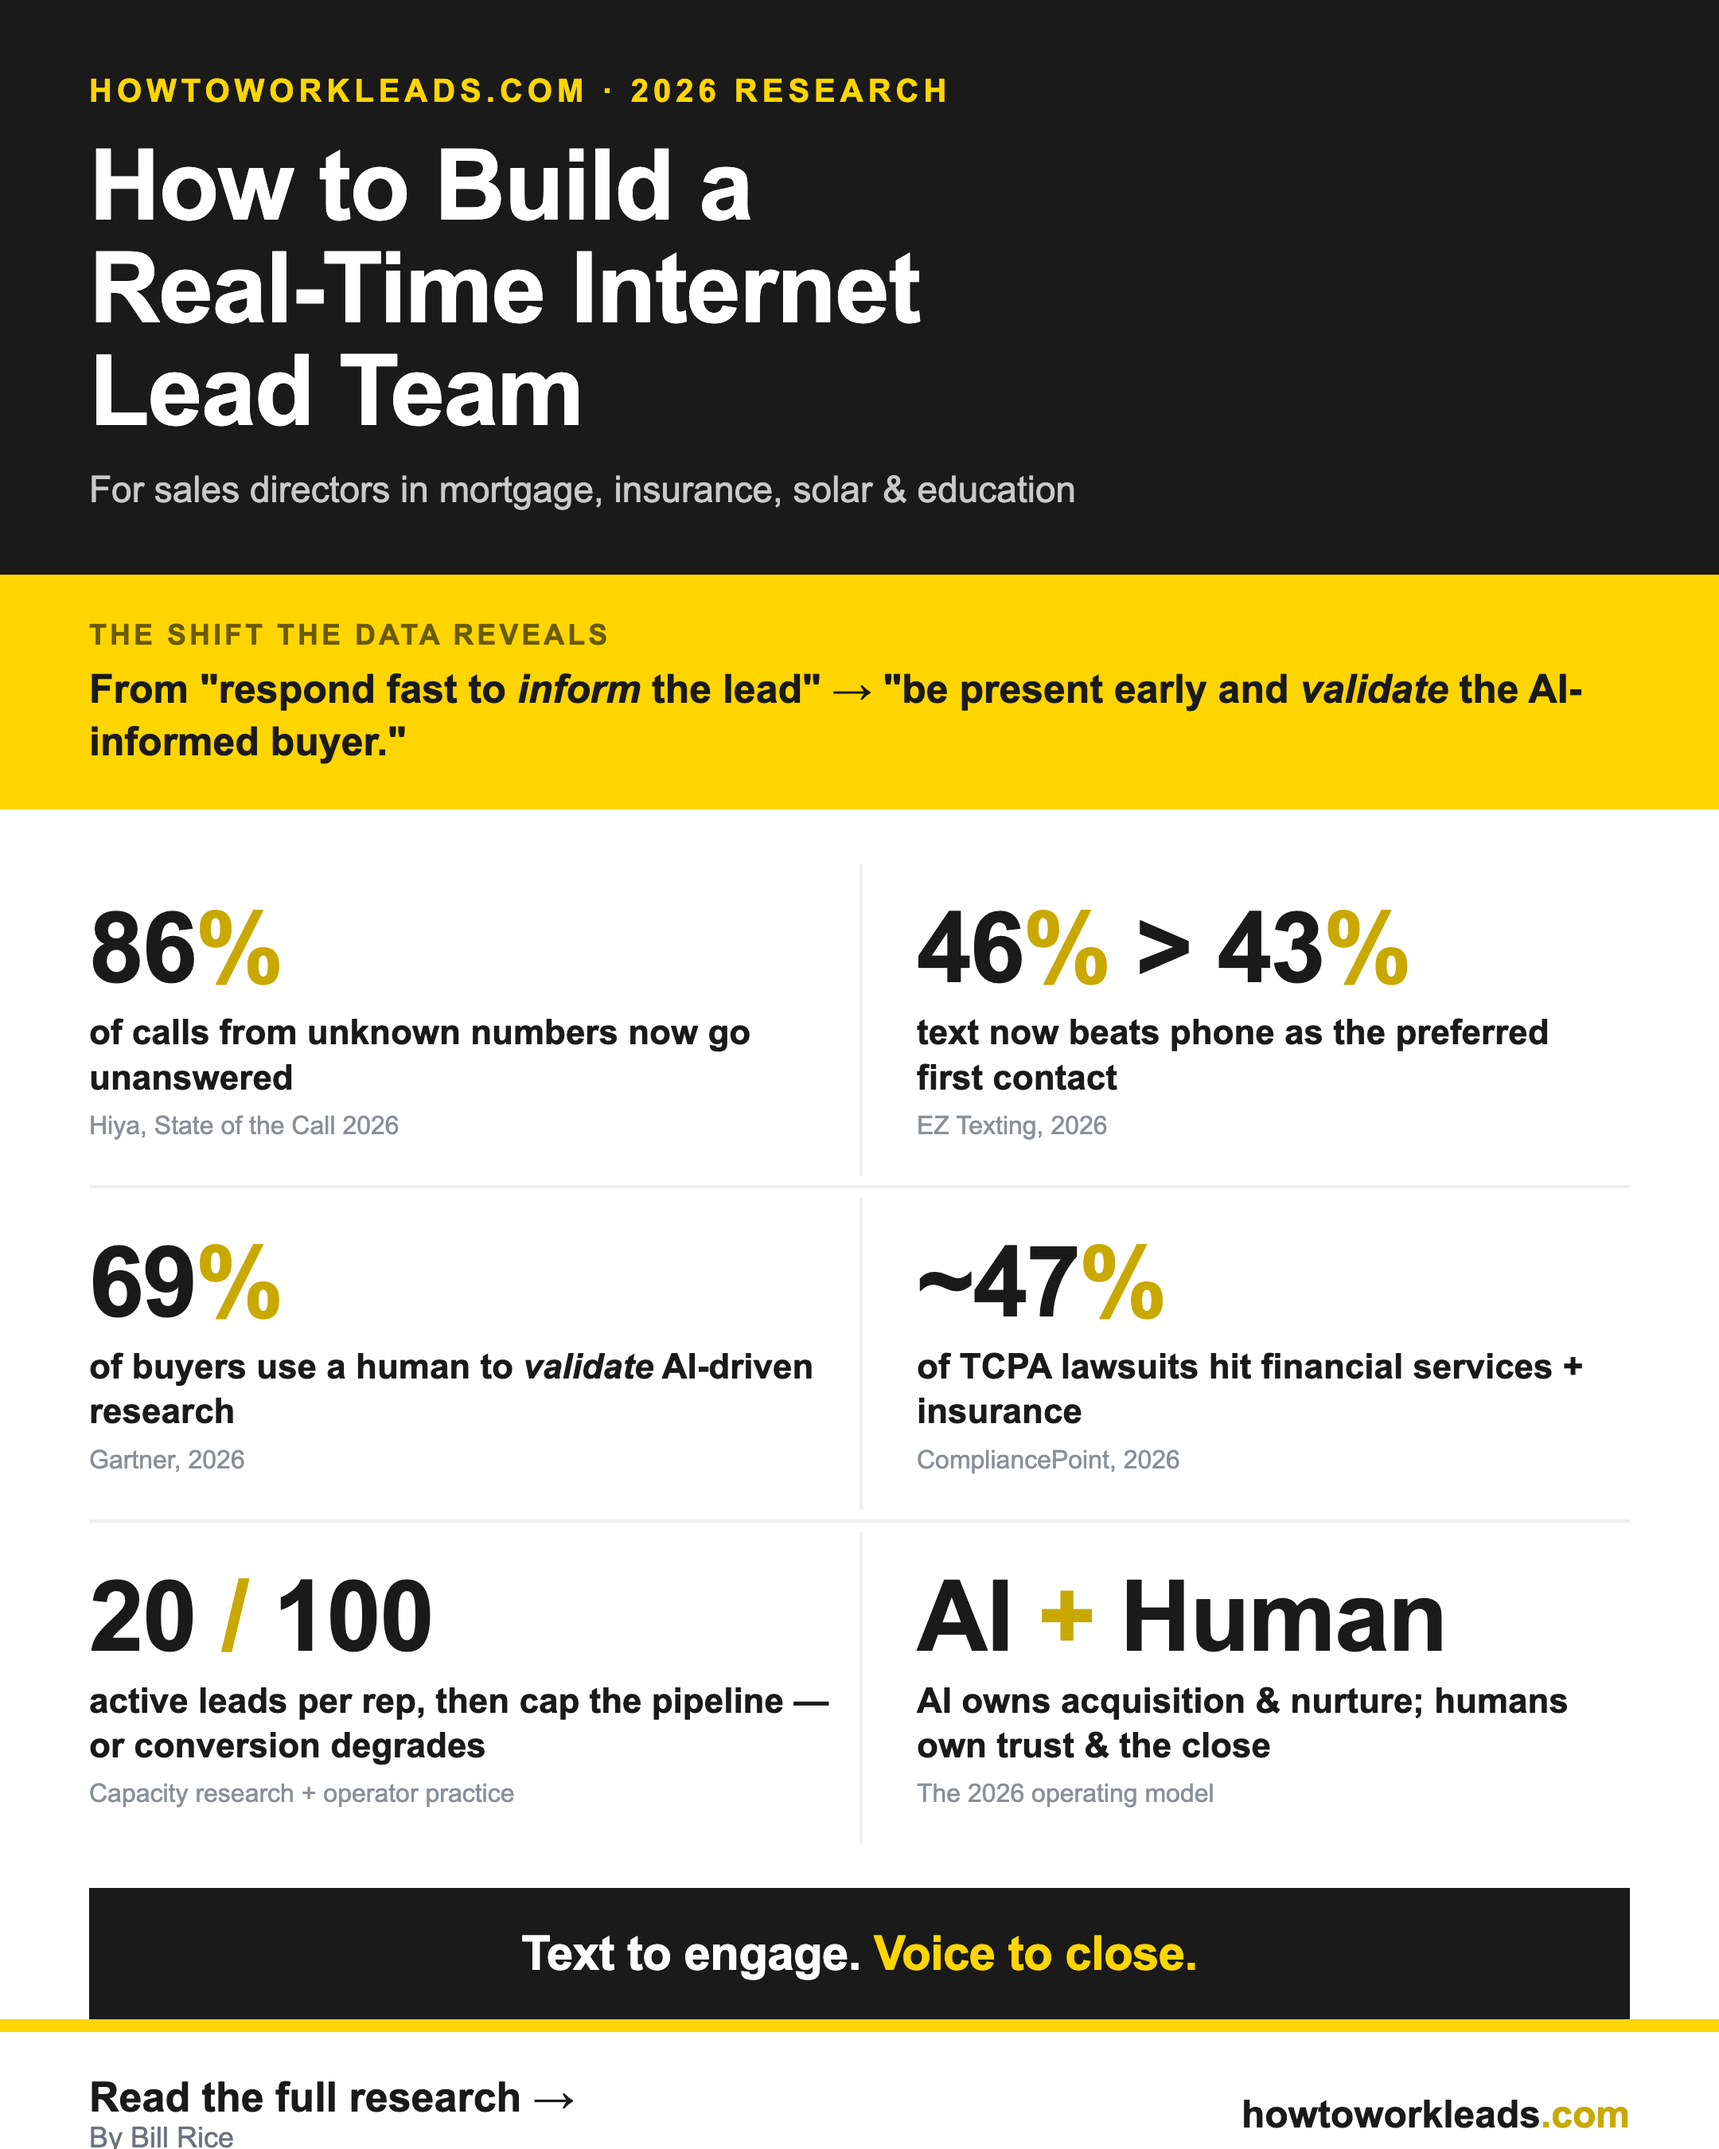
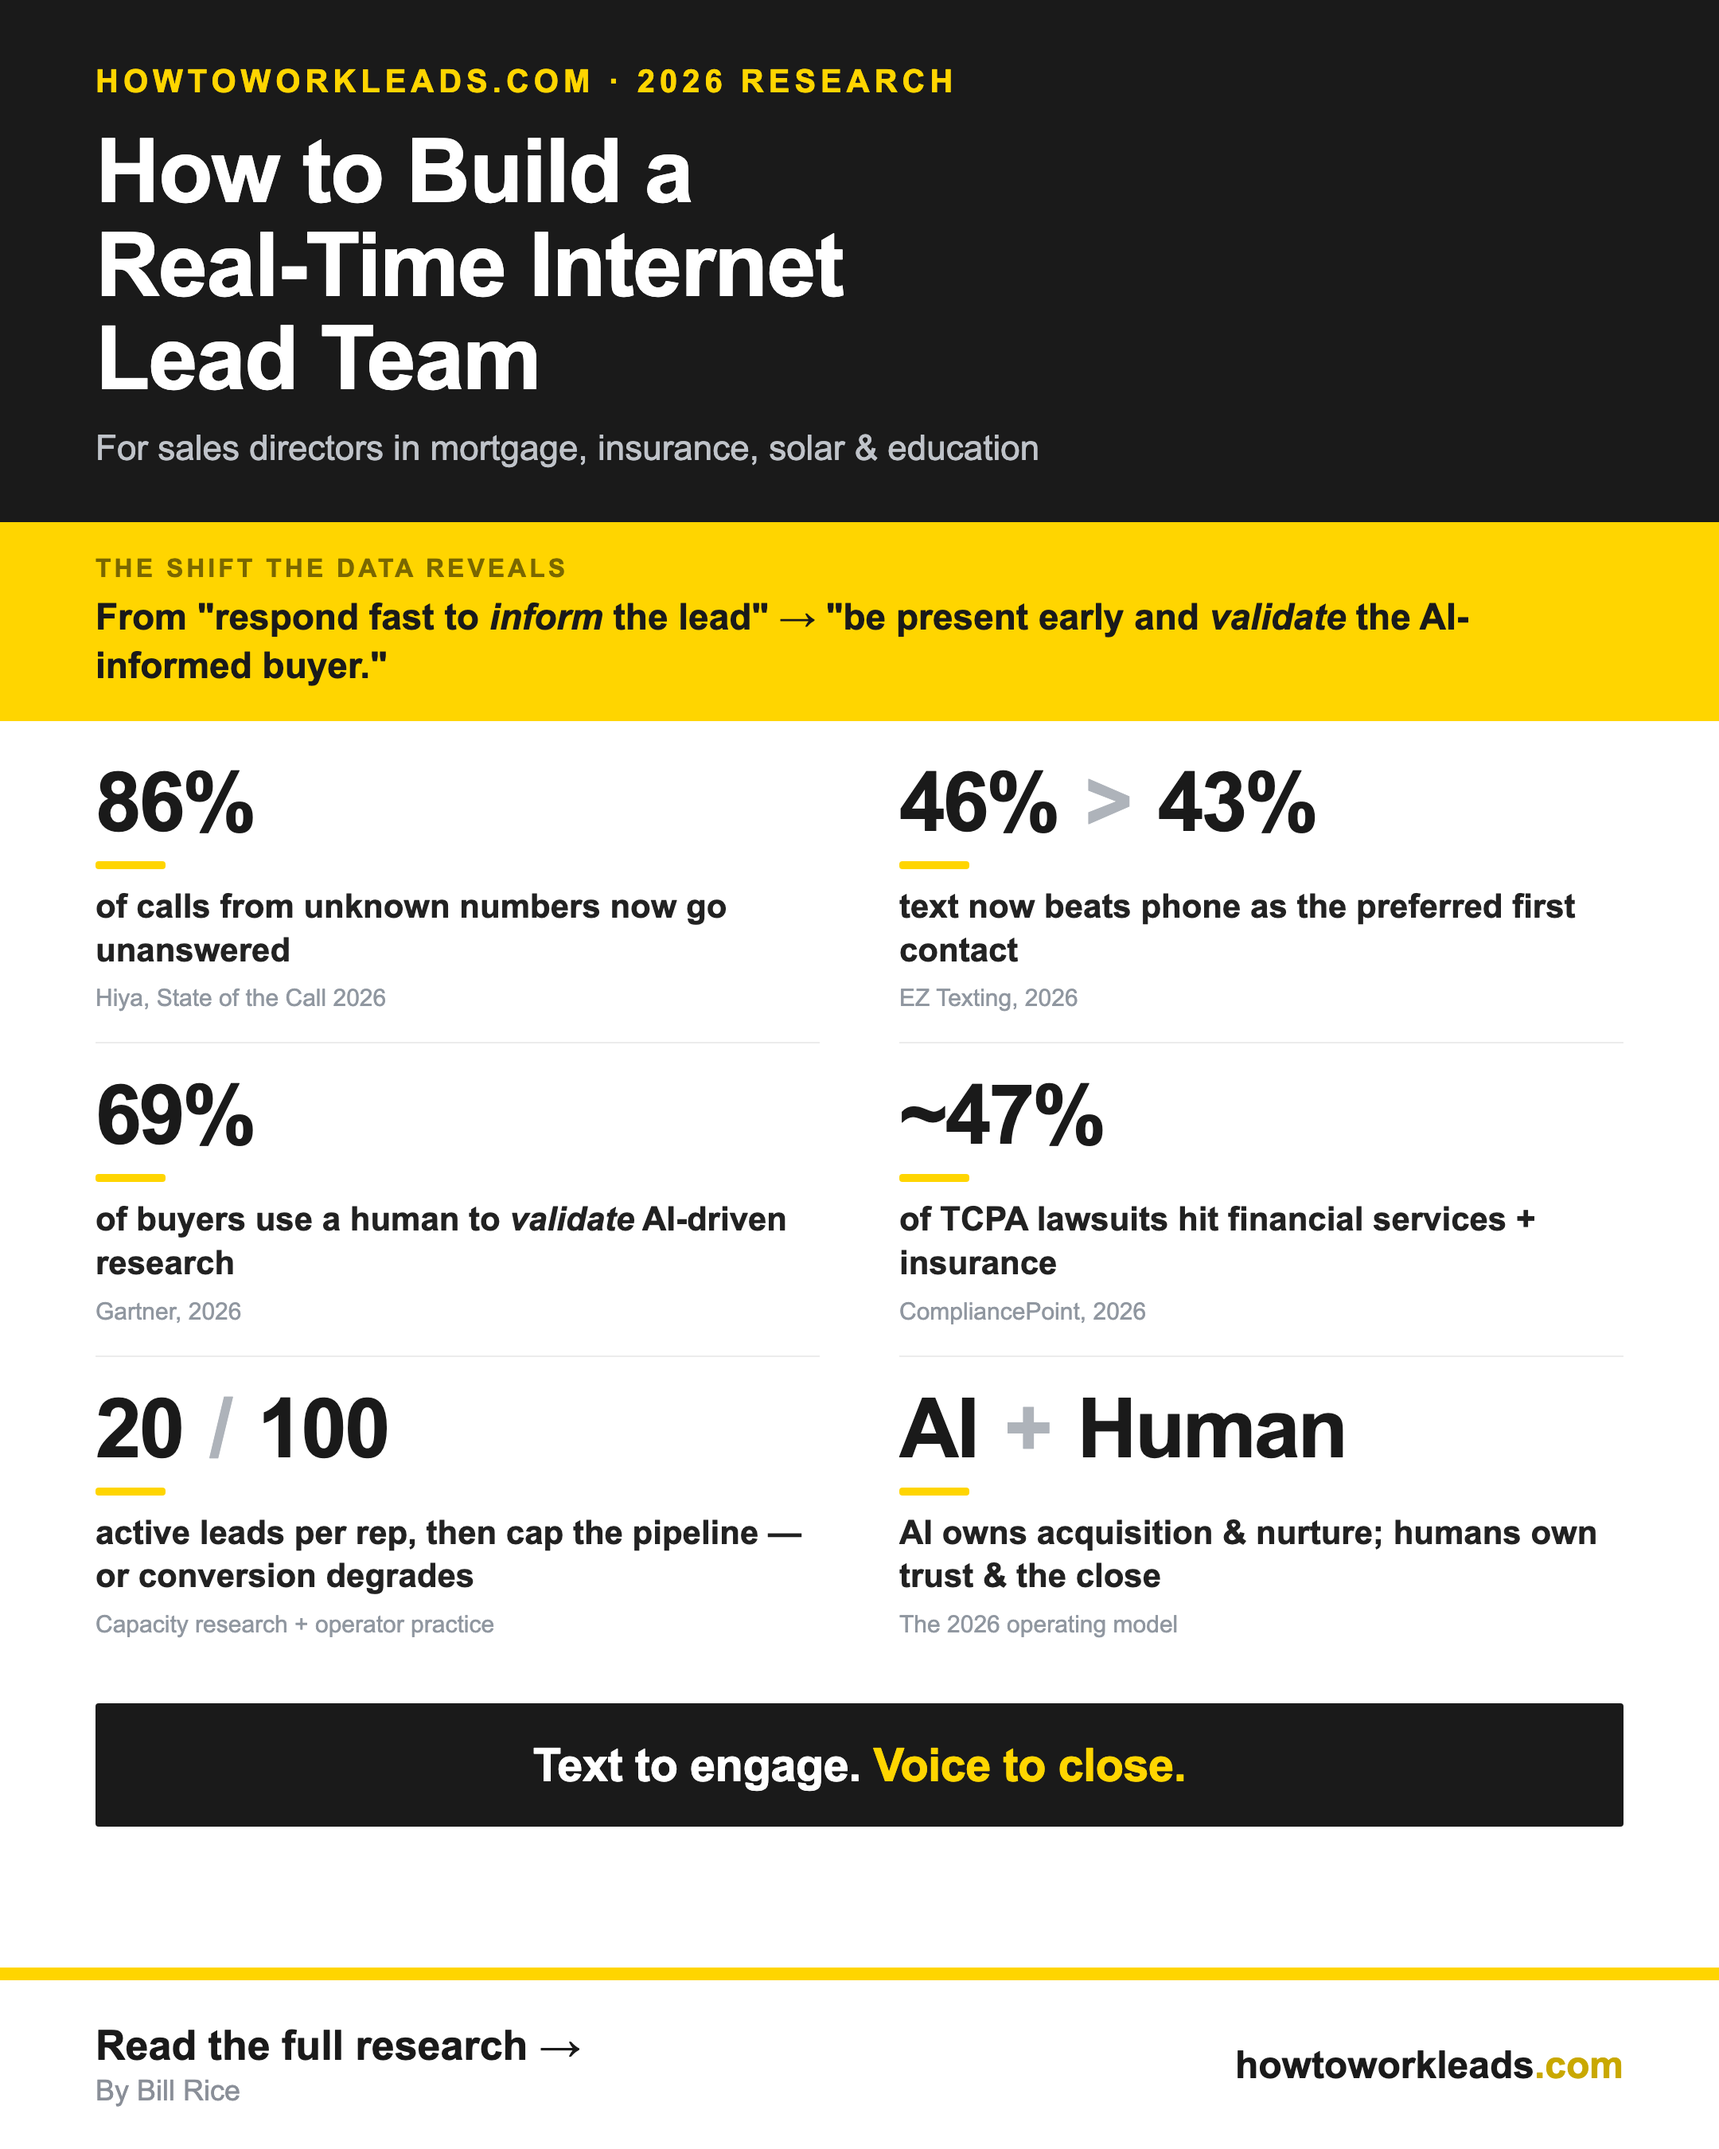
Redesign LinkedIn infographic for readability
Solid dark stat numbers (drop the low-contrast gold % on white), intentional
yellow accent rule under each stat, muted comparison operators, aligned grid
with clean row dividers, footer no longer clipped.

Changed region(s): [[0.0, 0.0311, 1.0, 1.0], [0.3102, 0.6844, 0.4343, 0.7156], [0.8995, 0.6844, 0.9306, 0.7156]]

diff --git a/scripts/social/infographic.html b/scripts/social/infographic.html
@@ -2,27 +2,28 @@
 <html><head><meta charset="utf-8"><style>
   html,body{margin:0;padding:0;background:#fff;}
   #stage{width:1080px;height:1350px;background:#FFFFFF;position:relative;font-family:Arial,Helvetica,sans-serif;color:#1A1A1A;overflow:hidden;display:flex;flex-direction:column;}
-  .top{background:#1A1A1A;color:#fff;padding:46px 56px 40px;}
+  .top{background:#1A1A1A;color:#fff;padding:40px 60px 34px;}
   .kicker{font-size:20px;letter-spacing:3px;color:#FFD500;font-weight:700;}
-  h1{font-size:62px;line-height:1.04;margin:16px 0 0;letter-spacing:-1px;font-weight:800;}
-  .verts{font-size:23px;color:#C9C9C9;margin-top:16px;}
-  .thesis{background:#FFD500;color:#1A1A1A;padding:26px 56px;font-size:25px;font-weight:700;line-height:1.32;}
-  .thesis .small{display:block;font-size:18px;font-weight:700;letter-spacing:2px;text-transform:uppercase;color:#6b5b00;margin-bottom:6px;}
-  .grid{display:grid;grid-template-columns:1fr 1fr;gap:0;padding:0 56px;margin-top:34px;}
-  .tile{padding:22px 18px 22px 0;}
-  .tile.r{padding-left:34px;border-left:2px solid #EEEEEE;}
-  .tile .num{font-size:62px;font-weight:800;line-height:1;letter-spacing:-1px;}
-  .tile .num span{color:#C9A800;}
-  .tile .lab{font-size:22px;line-height:1.28;margin-top:8px;font-weight:600;}
-  .tile .src{font-size:16px;color:#8A8F98;margin-top:7px;}
-  .divider{grid-column:1 / -1;height:2px;background:#EEEEEE;margin:6px 0;}
-  .banner{margin:28px 56px 0;background:#1A1A1A;color:#fff;padding:24px 28px;font-size:30px;font-weight:800;text-align:center;letter-spacing:-0.3px;}
+  h1{font-size:56px;line-height:1.05;margin:16px 0 0;letter-spacing:-1px;font-weight:800;}
+  .verts{font-size:22px;color:#BFC3C9;margin-top:14px;}
+  .thesis{background:#FFD500;color:#1A1A1A;padding:20px 60px;}
+  .thesis .small{display:block;font-size:16px;font-weight:800;letter-spacing:2px;text-transform:uppercase;color:#7A6700;margin-bottom:6px;}
+  .thesis .big{font-size:23px;font-weight:700;line-height:1.32;}
+  .grid{display:grid;grid-template-columns:1fr 1fr;column-gap:50px;padding:6px 60px 0;}
+  .tile{padding:19px 0;border-bottom:1px solid #ECECEC;}
+  .tile.lastrow{border-bottom:none;}
+  .num{font-size:52px;font-weight:800;line-height:1;letter-spacing:-1.5px;color:#1A1A1A;}
+  .num .op{color:#AEB3BA;font-weight:700;margin:0 4px;}
+  .rule{width:44px;height:5px;background:#FFD500;margin:11px 0 10px;border-radius:2px;}
+  .lab{font-size:21px;line-height:1.3;font-weight:700;color:#222;}
+  .src{font-size:15px;color:#9097A0;margin-top:8px;}
+  .banner{margin:22px 60px 0;background:#1A1A1A;color:#fff;padding:22px 28px;font-size:29px;font-weight:800;text-align:center;letter-spacing:-0.3px;border-radius:2px;}
   .banner b{color:#FFD500;}
-  .foot{margin-top:auto;padding:26px 56px;display:flex;justify-content:space-between;align-items:center;border-top:8px solid #FFD500;}
+  .foot{margin-top:auto;padding:26px 60px;display:flex;justify-content:space-between;align-items:center;border-top:8px solid #FFD500;}
   .foot .cta{font-size:26px;font-weight:800;}
+  .foot .by{font-size:18px;color:#8A8F98;margin-top:3px;}
   .foot .brand{font-size:24px;font-weight:800;}
   .foot .brand span{color:#C9A800;}
-  .by{font-size:18px;color:#6B7280;}
 </style></head>
 <body>
 <div id="stage">
@@ -33,38 +34,42 @@
   </div>
   <div class="thesis">
     <span class="small">The shift the data reveals</span>
-    From "respond fast to <i>inform</i> the lead" &rarr; "be present early and <i>validate</i> the AI-informed buyer."
+    <div class="big">From "respond fast to <i>inform</i> the lead" &rarr; "be present early and <i>validate</i> the AI-informed buyer."</div>
   </div>
   <div class="grid">
     <div class="tile">
-      <div class="num">86<span>%</span></div>
+      <div class="num">86%</div>
+      <div class="rule"></div>
       <div class="lab">of calls from unknown numbers now go unanswered</div>
       <div class="src">Hiya, State of the Call 2026</div>
     </div>
-    <div class="tile r">
-      <div class="num">46<span>%</span> &gt; 43<span>%</span></div>
+    <div class="tile">
+      <div class="num">46% <span class="op">&gt;</span> 43%</div>
+      <div class="rule"></div>
       <div class="lab">text now beats phone as the preferred first contact</div>
       <div class="src">EZ Texting, 2026</div>
     </div>
-    <div class="divider"></div>
     <div class="tile">
-      <div class="num">69<span>%</span></div>
+      <div class="num">69%</div>
+      <div class="rule"></div>
       <div class="lab">of buyers use a human to <i>validate</i> AI-driven research</div>
       <div class="src">Gartner, 2026</div>
     </div>
-    <div class="tile r">
-      <div class="num">~47<span>%</span></div>
+    <div class="tile">
+      <div class="num">~47%</div>
+      <div class="rule"></div>
       <div class="lab">of TCPA lawsuits hit financial services + insurance</div>
       <div class="src">CompliancePoint, 2026</div>
     </div>
-    <div class="divider"></div>
-    <div class="tile">
-      <div class="num">20<span> / </span>100</div>
+    <div class="tile lastrow">
+      <div class="num">20 <span class="op">/</span> 100</div>
+      <div class="rule"></div>
       <div class="lab">active leads per rep, then cap the pipeline &mdash; or conversion degrades</div>
       <div class="src">Capacity research + operator practice</div>
     </div>
-    <div class="tile r">
-      <div class="num">AI<span> + </span>Human</div>
+    <div class="tile lastrow">
+      <div class="num">AI <span class="op">+</span> Human</div>
+      <div class="rule"></div>
       <div class="lab">AI owns acquisition &amp; nurture; humans own trust &amp; the close</div>
       <div class="src">The 2026 operating model</div>
     </div>
